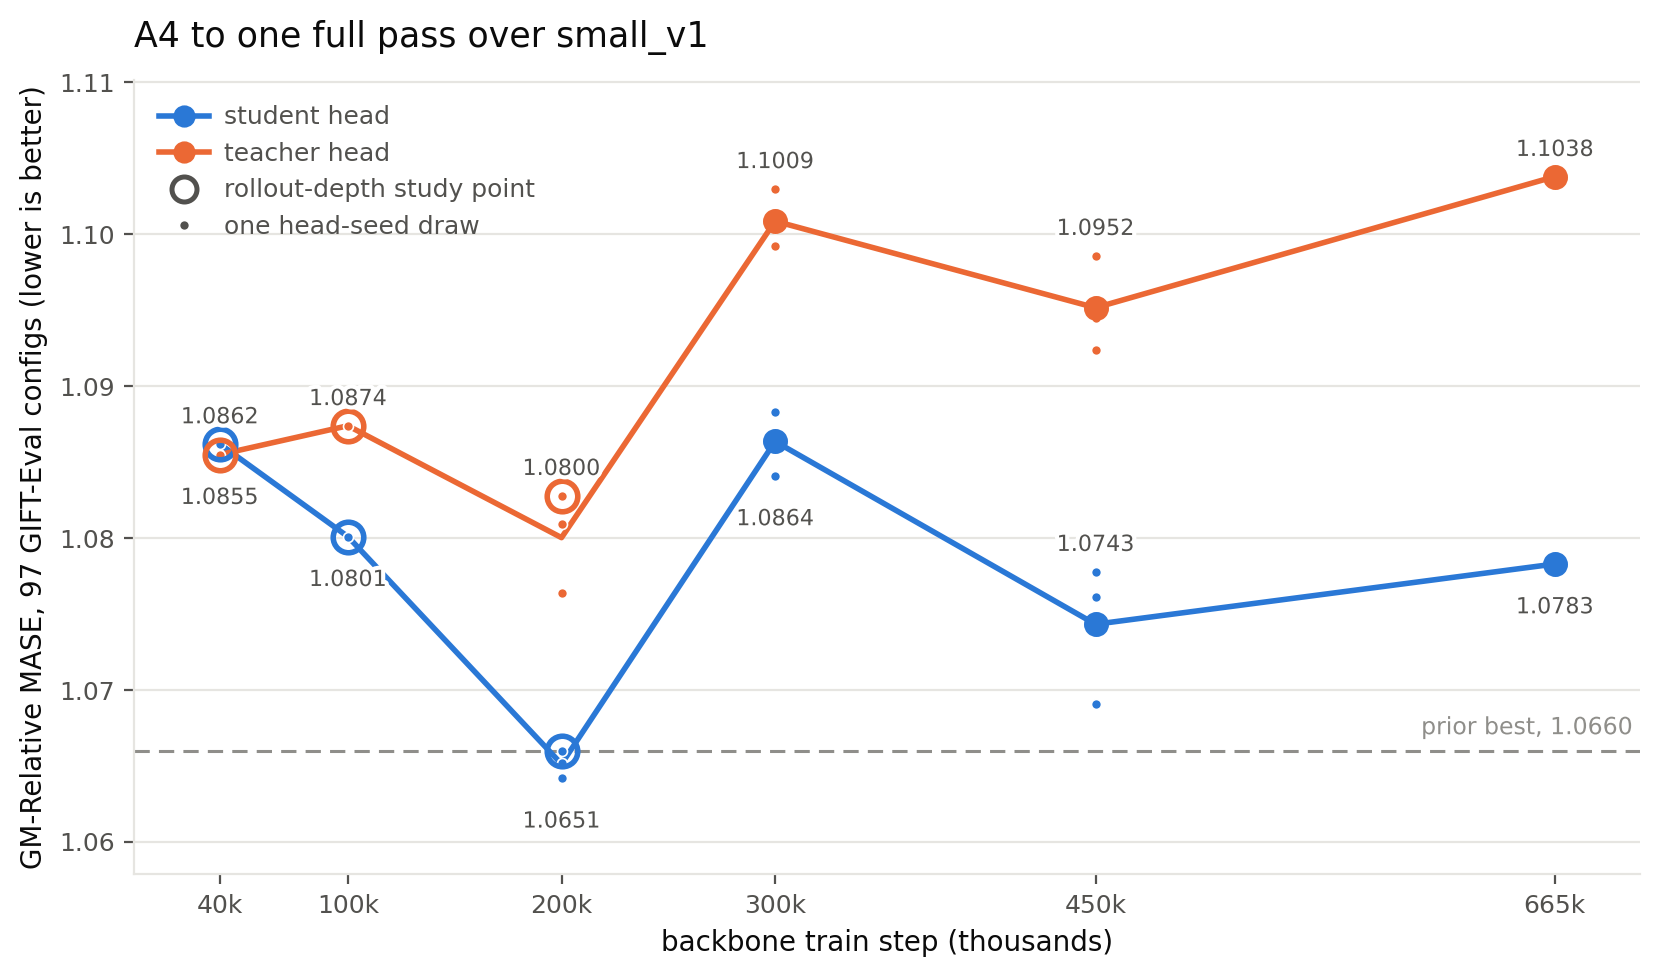
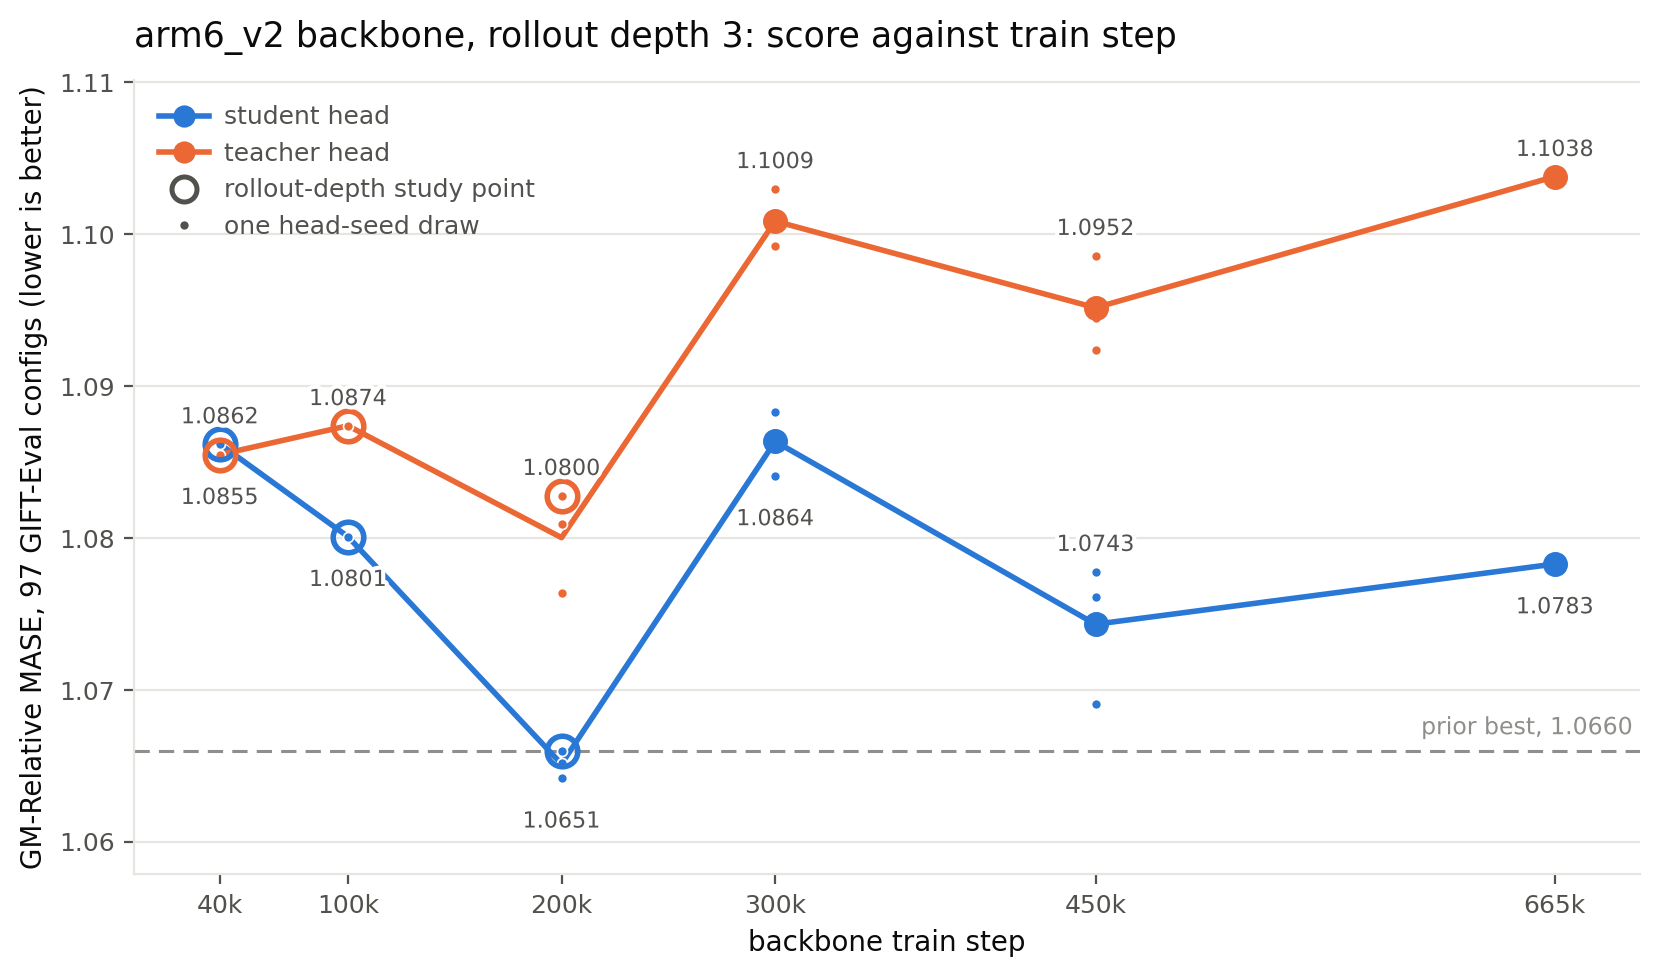
exp(#407): the report follows the review's 13 edits
The finding opens the report, the figure title and x-axis label name
the model and the unit in words, the caption is one line, and the 665k
checkpoint md5 now has a source in results/backbone_665k_md5.txt.

Changed region(s): [[0.0615, 0.0, 0.7071, 0.0614], [0.3996, 0.9519, 0.6763, 0.9826]]

diff --git a/reports/2026-08-20_a4_full_pass/scripts/plot_full_pass.py b/reports/2026-08-20_a4_full_pass/scripts/plot_full_pass.py
@@ -71,11 +71,8 @@ INK, INK_SOFT, GRID, RULE = "#0b0b0b", "#52514e", "#e6e5e1", "#8f8e8a"
 # The caption, word for word. It names every mark on the axes and nothing
 # else. `main` writes it beside the PNG so the report and the figure cannot
 # drift apart.
-CAPTION = (
-    "GM-Relative MASE against backbone train step, student and teacher "
-    "heads, lower is better. Lines join the per-stop means. Small dots are "
-    "single head-seed draws. Hollow marks are the published points from "
-    "the rollout-depth study. The dashed line is the prior best, 1.0660.")
+CAPTION = ("GM-Relative MASE against backbone train step, student and "
+           "teacher heads.")
 
 
 def means(head, results, parent):
@@ -250,10 +247,10 @@ def main():
     for head in FP.HEADS:
         draw(ax, head, curves[head], pubs[head], sides, drawn[head])
 
-    ax.set_xlabel("backbone train step (thousands)", fontsize=10, color=INK)
+    ax.set_xlabel("backbone train step", fontsize=10, color=INK)
     ax.set_ylabel("GM-Relative MASE, 97 GIFT-Eval configs (lower is better)",
                   fontsize=10, color=INK)
-    ax.set_title("A4 to one full pass over small_v1",
+    ax.set_title("arm6_v2 backbone, rollout depth 3: score against train step",
                  fontsize=12.5, color=INK, loc="left", pad=12)
     ticks = [s // 1000 for s in FP.PARENT_STOPS + FP.STOPS]
     ax.set_xticks(ticks)

diff --git a/reports/2026-08-20_a4_full_pass/a4_full_pass.md b/reports/2026-08-20_a4_full_pass/a4_full_pass.md
@@ -1,28 +1,28 @@
 # One full pass over small_v1 scores 1.0783 and does not improve on 200,000 steps
 
-The rollout-depth study stopped its best backbone, A4, at 200,000 steps, and this card gives the same run one full pass over `small_v1`. No stop after 200,000 steps beats 200,000 steps, on either head. The student mean rises from 1.0651 at 200,000 steps to 1.0783 at the full pass, and the teacher mean rises from 1.0800 to 1.1038 (GM-Relative MASE, lower is better).
+More backbone training past 200,000 steps makes the score worse. One full pass over the training dataset `small_v1` does not beat the 200,000-step stop, on either head (GM-Relative MASE, defined in [the rollout-depth study](../2026-08-08_rollout_depth/rollout_depth.md)).
 
 ![GM-Relative MASE against backbone train step](plots/full_pass.png)
 
-*GM-Relative MASE against backbone train step, student and teacher heads, lower is better. Lines join the per-stop means. Small dots are single head-seed draws. Hollow marks are the published points from the rollout-depth study. The dashed line is the prior best, 1.0660.*
+*GM-Relative MASE against backbone train step, student and teacher heads.*
 
 Every student draw after 200,000 steps scores above every student draw at 200,000 steps, with the closest pair at 1.0691 against 1.0660. The teacher draws show the same shape. The rise at 300,000 steps, +0.021 on both heads, is larger than the largest measured head-seed range, 0.0087.
 
-## The teacher points are measurements, not repeats
+## The teacher head keeps changing after step 100,000
 
-The teacher encoder freezes at step 100,000. But the teacher head also loads 36 student-owned tensors, and 32 of them keep training. So each teacher point after 100,000 steps is a different model.
+The teacher encoder freezes at step 100,000. The teacher head also loads 36 student-owned tensors, and 32 of them keep training. So each teacher point after 100,000 steps is a different model.
 
 ## Reproduction check
 
-The head-seed 20260722 re-draw at 200,000 steps returns 1.0660 on the student head and 1.0828 on the teacher head, identical to the published values. Machine drift and code drift are zero.
+The head-seed 20260722 re-draw at 200,000 steps returns the published values on both heads.
 
-## What one draw cannot order
+## The 450,000 and 665,000 stops are not separated
 
-The 665,000-step stop has one draw for each head. The 450k-to-665k gap, +0.0040 on the student mean, sits inside the measured head-seed ranges, so this report does not order 450,000 against 665,000 steps.
+The 665,000-step stop has one draw for each head, and its +0.0040 student-mean gap to the 450,000-step stop sits inside the measured head-seed ranges.
 
 ## Tables
 
-Table 1: GM-Relative MASE for every (stop, head, seed) draw, with the per-stop mean and range.
+**Table 1: scores**
 
 | stop | head | s20260722 | s20260723 | s20260724 | mean | range |
 |---:|:---|---:|---:|---:|---:|---:|
@@ -35,7 +35,7 @@ Table 1: GM-Relative MASE for every (stop, head, seed) draw, with the per-stop m
 | 665k | student | 1.0783 | — | — | 1.0783 | — |
 | 665k | teacher | 1.1038 | — | — | 1.1038 | — |
 
-Table 2: checkpoint and head provenance.
+**Table 2: provenance**
 
 | item | value |
 |:---|:---|
@@ -46,9 +46,7 @@ Table 2: checkpoint and head provenance.
 | 665k checkpoint | md5 `ec1f64a5d4bc1e12d830a625b89cad84` |
 | launcher | `scripts/run_pass.sh`, which calls the rollout-depth study's `run_leg_k.sh` and `stop_k.sh` |
 | head recipe | arm6_v2, 30,000 head steps |
-| head seeds | 20260722 to 20260724 at 200k, 300k, 450k. 20260722 at 665k |
-| eval spec | 97 GIFT-Eval configs, B4 strategy, horizon 16 |
 
 ## Protocol
 
-The run continues cell `arm6_v2_combab_alignS` (k = 3) from the 200,000-step checkpoint of the rollout-depth study, with its saved optimizer state, the same flags (constant lr 1e-3, no schedule) and the same data seed. 665,000 steps is 99.97% of one pass over `small_v1` (42,571,692 rows, 665,182 steps for one pass). Each stop trains a fresh head for 30,000 steps, with seeds 20260722 to 20260724 at 200k, 300k and 450k, and seed 20260722 at 665k. Each head scores on 97 GIFT-Eval configs with the B4 strategy at horizon 16. The arm6_v2 head recipe and the GM-Relative MASE metric are defined in [the rollout-depth study](../2026-08-08_rollout_depth/rollout_depth.md).
+The rollout-depth study stopped its best backbone, A4 (the `arm6_v2_combab_alignS` cell at rollout depth k = 3), at 200,000 steps, and this card gives the same run one full pass. The run continues from that 200,000-step checkpoint, with its saved optimizer state, the same flags (constant lr 1e-3, no schedule) and the same data seed. 665,000 steps is 99.97% of one pass over `small_v1` (42,571,692 rows, 665,182 steps for one pass). Each stop trains a fresh head for 30,000 steps, with seeds 20260722 to 20260724 at 200k, 300k and 450k, and seed 20260722 at 665k. Each head scores on 97 GIFT-Eval configs with the B4 strategy at horizon 16. The arm6_v2 head recipe and the GM-Relative MASE metric are defined in the rollout-depth study.
